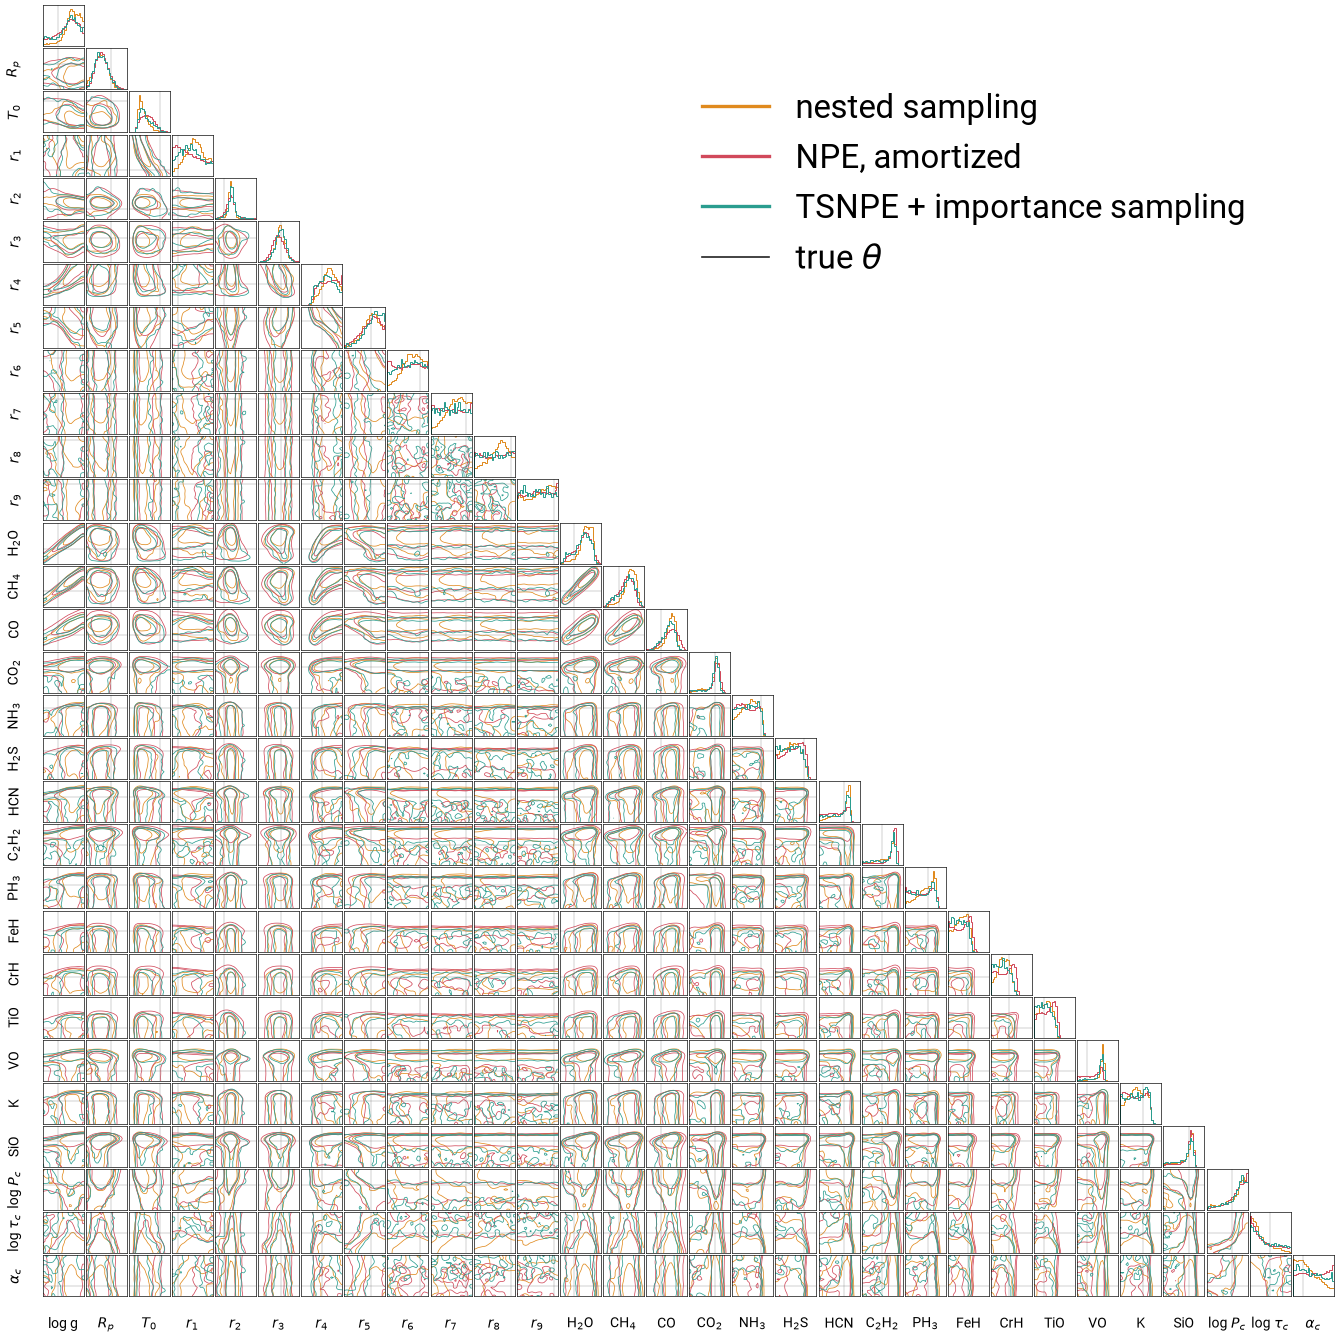
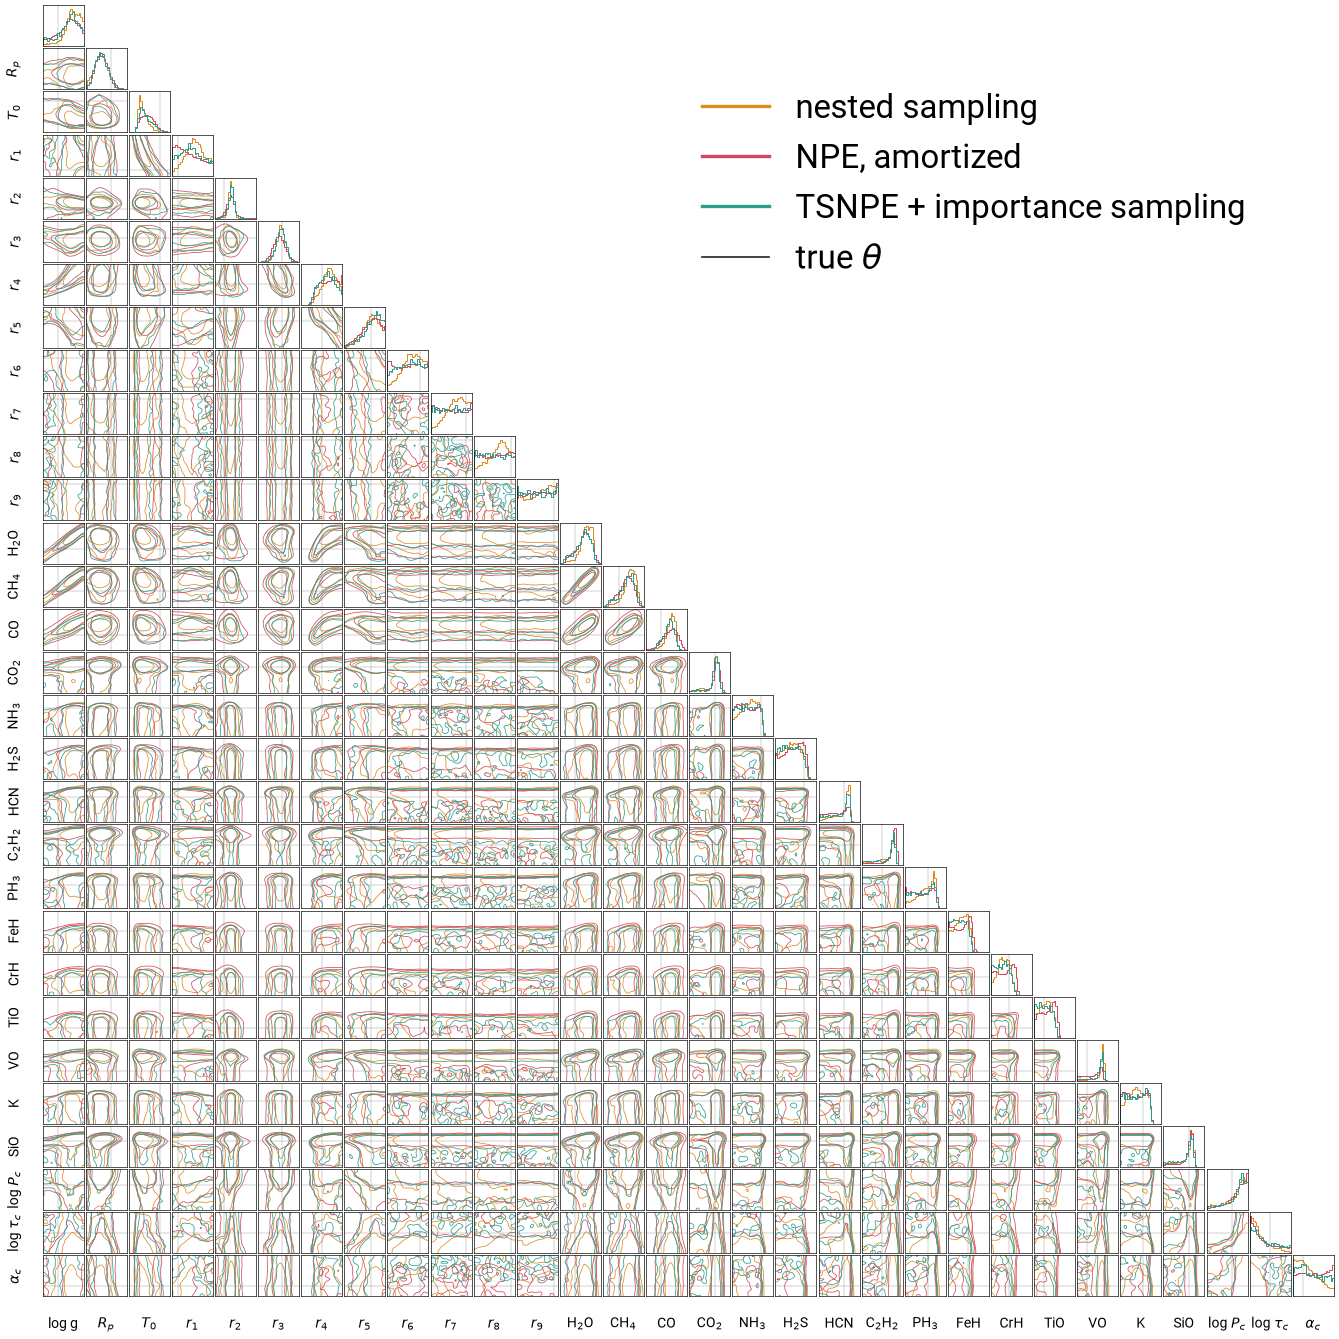
30-parameter backups: TSNPE from the best run (seed 2, ESS 3638)

Changed region(s): [[0.0306, 0.0306, 0.9798, 0.9798]]

diff --git a/tools/t30_figures.py b/tools/t30_figures.py
@@ -3,7 +3,7 @@
     python tools/t30_figures.py   # -> figures/t30-corner.png, t30-corner-full.png, t30-chi2.png
 
 Reads .render/data/t30/ (fetched from /scratch/.../exomints/t30/): nested-s1-n2000/nested.npz (reference),
-amortised/posterior-0.npz (amortised NPE, 1M simulations), tsnpe/is-4.npz (TSNPE, 5 rounds of 200k, reweighted by
+amortised/posterior-0.npz (amortised NPE, 1M simulations), tsnpe2-s2/is-4.npz (TSNPE seed 2, 5 rounds of 200k, reweighted by
 importance sampling), xobs.npz. Same sets as plot_t30.py's "npe-tsnpe-ns" figures, drawn at slide size.
 """
 
@@ -22,6 +22,7 @@ import toy_exo30 as T
 D = ".render/data/t30/"
 SIGMA = T.SIGMA_NOISE * T.Simulator.scale
 NS_COL, NPE_COL, TS_COL = "#e08a1e", "#d1495b", "#2a9d8f"  # all three as lines: no method is the reference
+TSNPE_RUN = "tsnpe2-s2"  # best of the four TSNPE runs (seed 2): IS ESS 3638 of 50k at round 4
 LABELS = {"R_p": r"$R_P$", "T_0": r"$T_0$", "r_3": r"$r_3$", "log_H2O": r"$\log X_{\rm H_2O}$",
           "log_CH4": r"$\log X_{\rm CH_4}$", "log_CO": r"$\log X_{\rm CO}$", "log_FeH": r"$\log X_{\rm FeH}$",
           "log_TiO": r"$\log X_{\rm TiO}$", "log_VO": r"$\log X_{\rm VO}$"}
@@ -32,7 +33,7 @@ def sets():
     ns = np.load(D + "nested-s1-n2000/nested.npz")
     return [("nested sampling", ns["samples"], NS_COL),
             ("NPE, amortized", np.load(D + "amortised/posterior-0.npz")["samples"], NPE_COL),
-            ("TSNPE + importance sampling", np.load(D + "tsnpe/is-4.npz")["samples"], TS_COL)]
+            ("TSNPE + importance sampling", np.load(D + TSNPE_RUN + "/is-4.npz")["samples"], TS_COL)]
 
 
 def corner_fig():
@@ -168,7 +169,7 @@ def chi2_fig(n=400):
     bins = np.linspace(100, 400, 61)
     legend = {"nested sampling": "nested sampling, 13.8M likelihood calls",
               "NPE, amortized": "NPE, amortized, 1M simulations\n(importance sampling: ESS 6)",
-              "TSNPE + importance sampling": "TSNPE, 1M simulations\n(importance sampling: ESS 2387)"}
+              "TSNPE + importance sampling": "TSNPE, 1M simulations\n(importance sampling: ESS 3638)"}
     for lab, s, c in sets():
         lab = legend[lab]
         th = s[rng.choice(len(s), n, replace=False)]
@@ -198,7 +199,7 @@ def ppc_fig(n=300):
     data = sets()
     preds = [np.array([sim.clean(t) for t in s[rng.choice(len(s), n, replace=False)]]) for _, s, _ in data]
     legend = ["nested sampling\n13.8M likelihood calls", "NPE, amortized\n1M simulations, ESS 6",
-              "TSNPE\n1M simulations, ESS 2387"]
+              "TSNPE\n1M simulations, ESS 3638"]
     plt.rcParams.update({"font.size": 18, "font.family": "Roboto", "axes.spines.top": False,
                          "axes.spines.right": False})
     fig = plt.figure(figsize=(16, 8.5), dpi=100)

diff --git a/todo.md b/todo.md
@@ -80,7 +80,7 @@ This file is the state of the project. Read it first at the start of every sessi
 - **Reference only:** `../2026 - SBI in HEP/` (SBI blueprint, 2023); the 2019 talks (Oxford, GRAPPA, DESY) list Bayesian model comparison among the uses of NRE.
 
 ## Pending
-- [x] **T7.1.** Backup slides 44-45 (after the closing slide): Gilles' overnight 30-parameter benchmark (`tools/toy_exo30.py`, `tools/toy_tsnpe.py`, `tools/plot_t30.py`; alan `/scratch/.../t30/`). Slides (count: false, after the closing slide): full 30x30 corner (`t30-corner-full.png`), gallery of the 30 marginals (`t30-marginals.png`; NS tilted on prior-dominated r6-r9, networks flat), and PPC + chi2 (`t30-ppc.png`), no prose, numbers in legends; figures by `tools/t30_figures.py` (data in `.render/data/t30/`): NS 2000 live (13.8M calls, 3.4 h/64 cores, log Z -102.67 ± 0.24), amortized NPE 1M sims (median chi2 218, IS ESS 6), TSNPE 5x200k + IS (chi2 137, ESS 2387, log Z -103.29, stable over 4 runs). OPEN: NS and TSNPE+IS disagree on a low-abundance tail (6% vs 19% below log H2O = -3.3) and on log Z by 0.6; NS 500 live gives -101.68. A long MCMC would arbitrate (not run).
+- [x] **T7.1.** Backup slides 44-45 (after the closing slide): Gilles' overnight 30-parameter benchmark (`tools/toy_exo30.py`, `tools/toy_tsnpe.py`, `tools/plot_t30.py`; alan `/scratch/.../t30/`). Slides (count: false, after the closing slide): full 30x30 corner (`t30-corner-full.png`), gallery of the 30 marginals (`t30-marginals.png`; NS tilted on prior-dominated r6-r9, networks flat), and PPC + chi2 (`t30-ppc.png`), no prose, numbers in legends; figures by `tools/t30_figures.py` (data in `.render/data/t30/`): NS 2000 live (13.8M calls, 3.4 h/64 cores, log Z -102.67 ± 0.24), amortized NPE 1M sims (median chi2 218, IS ESS 6), TSNPE 5x200k + IS, now the best run tsnpe2-s2 (seed 2, round 4: ESS 3638, log Z -103.29; tsnpe 2387, tsnpe2 2026, tsnpe2-s1 80 after a degraded last round; log Z -103.20 to -103.29 over the four). OPEN: NS and TSNPE+IS disagree on a low-abundance tail (6% vs 17-19% below log H2O = -3.3, reproduced by two TSNPE runs) and on log Z by 0.6; NS 500 live gives -101.68. A long MCMC would arbitrate (not run).
 - [x] **T6.2.** Error bars on slide 40: 6 runs per estimate (seed 0 + 5 repetitions, alan arrays 40195/40196/40197; results fetched to `.render/data/toy-mc/rep/`), mean ± 1 std, runs as faint dots (`toy_mc.py figures`). Cloudy planet: NS +20.00 ± 0.30, IS +20.03 ± 0.01, classifier +7.46 ± 0.66 (saturated, unstable). Clear: NS -1.14 ± 0.29, IS -1.16 ± 0.003, classifier -1.30 ± 0.07. IS is ~30x more reproducible than NS, despite retraining.
 - [x] **T6.3.** Savage-Dickey check (no slide change): deep-cloud interval log Pc in [1.3, 1.5] is indistinguishable from clear (< 0.07 sigma); B(clear:cloudy) = P(interval | x) / 0.067. Clear planet: -1.17 (NS samples), -1.18 (IS), -1.25 (NPE) vs -1.11 from evidences. Cloudy planet: no samples in the interval, only log B > 5.6-6.1; NPE alone gives a wrong finite +5.25 from tail leakage.
 - [x] **T6.1.** FMPE on the toy (`tools/toy_fmpe.py`, alan scripts `.render/alan/train_fmpe.sh`; local results in `.render/data/fmpe/`). Same embedding/pairs/noise as NPE; residual vector field, RK4 64 steps, exact divergence. Finding (2026-11-09): the vector field memorizes the training pairs (valid loss rises after ~5 epochs), so early stopping on validation; early-stopped posteriors are 1.5-2x wider than MCMC, IS efficiency 0.000-0.012 (NPE 0.57), log Z still matches NS (-55.8 vs -55.90). 500k: valid 2.61; width 128: 2.52; 2M pairs: 2.49. 10M pairs: the simulator costs ~58 ms/spectrum (not 4 ms), so 10M = ~160 CPU-h; first attempt (one 32-CPU job) cancelled; now sharded: alan array 40161 (20 x 500k, `.render/alan/sim_shards.sh`, OMP_NUM_THREADS=1) -> 40162 train, `/scratch/.../toy-10m/pairs-*.npz`. Possible talk message: FMPE is more flexible but needs more simulations. RESULT 10M (2026-11-09): no overfitting (best valid 2.32 at last epoch); posterior widths within ~8% of MCMC and means on MCMC (closer than NPE); IS efficiency 0.108 (NPE 0.57), log Z -55.71. ODE_STEPS=256: IS efficiency 0.087, log Z -55.77, so not solver error; FMPE posterior is slightly too narrow (light tails), which IS punishes; NPE (10-20% overdispersed) is the better proposal (0.57). FMPE at 500k (sweep of LR/width/dropout; frozen NPE embedding, FiLM, EMA, short schedule; `.render/data/fmpe/500k-E*`): best runs fix the widths but keep a 0.5-0.7 sigma bias along the T_int-R_p degeneracy (IS eff 0.05-0.10); NPE 10M also trained (`.render/data/npe-10m/`). DECISION (Gilles, 2026-11-09): no FMPE corner slide; slide removed.

diff --git a/talk.md b/talk.md
@@ -896,7 +896,7 @@ class: middle
 
 ## Backup: 30-parameter retrieval
 
-.center.width-70[![](figures/t30-corner-full.png?v=2)]
+.center.width-70[![](figures/t30-corner-full.png?v=3)]
 
 .footnote[TSNPE: truncated sequential NPE, [Deistler et al](https://arxiv.org/abs/2210.04815), NeurIPS 2022. Free retrieval, 0.8 to 5 μm.]
 
@@ -906,14 +906,14 @@ A harder version of our toy, closer to a real free retrieval. Thirty parameters:
 
 Amortized NPE gets the broad picture, but it is off on the temperature and on the trace species. TSNPE trains on the observation in rounds, and each round simulates only where the posterior is. With importance sampling on top, it agrees closely with nested sampling.
 
-One honest caveat. TSNPE puts more mass than nested sampling in a tail at low abundances, about 19% against 6%. Which one is right would need a third reference.
+One honest caveat. TSNPE puts more mass than nested sampling in a tail at low abundances, about 17% against 6%, and two independent TSNPE runs agree on it. Which one is right would need a third reference.
 
 ---
 
 count: false
 class: middle
 
-.center.width-100[![](figures/t30-marginals.png?v=2)]
+.center.width-100[![](figures/t30-marginals.png?v=3)]
 
 ???
 
@@ -926,7 +926,7 @@ For the barely constrained temperature ratios, the networks are close to flat, a
 count: false
 class: middle
 
-.center.width-100[![](figures/t30-ppc.png?v=2)]
+.center.width-100[![](figures/t30-ppc.png?v=3)]
 
 ???
 
